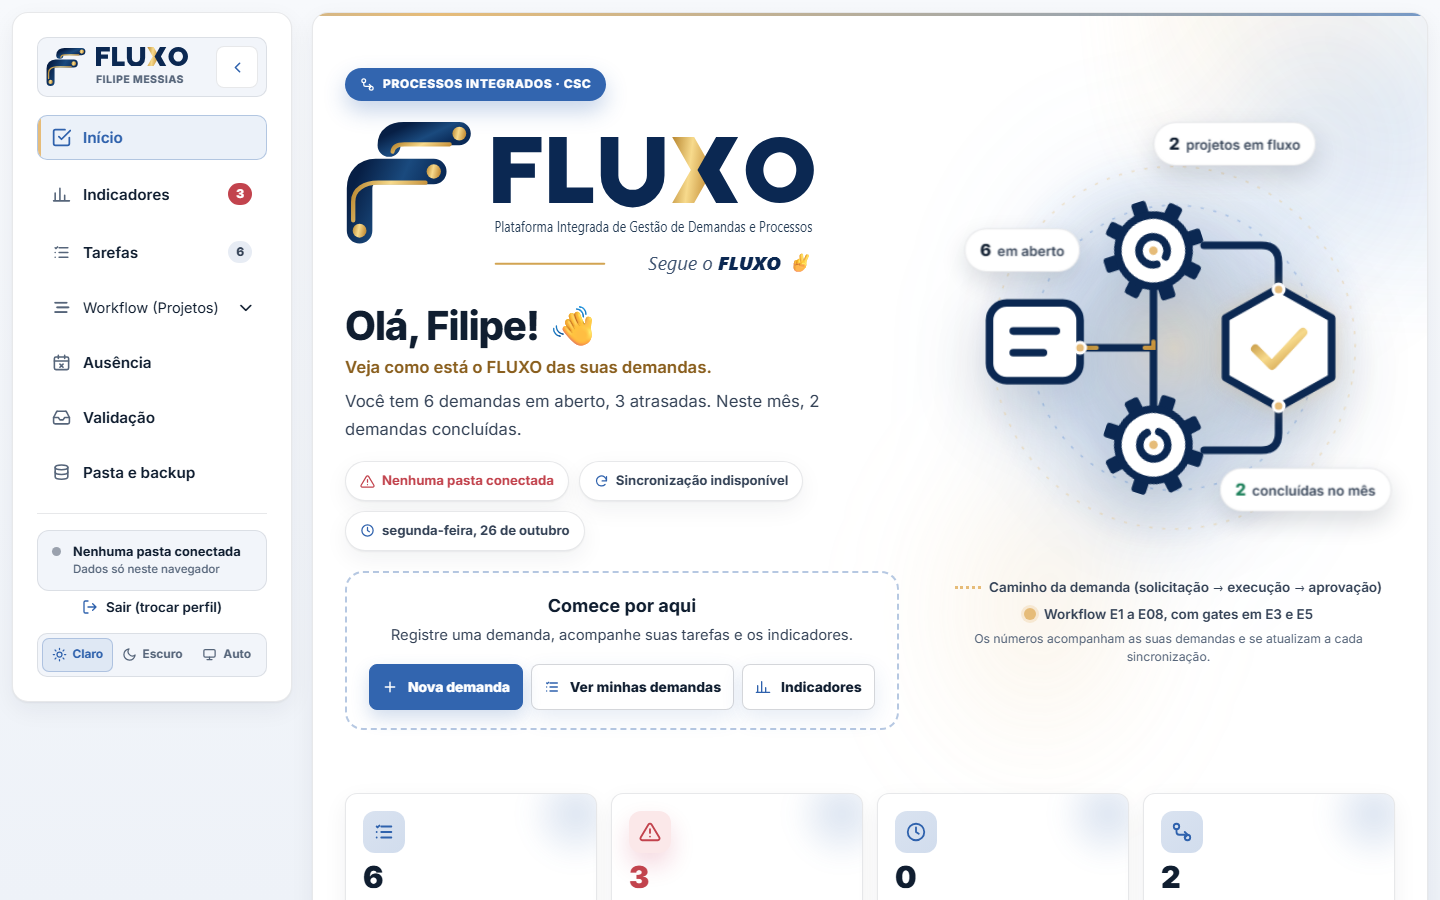
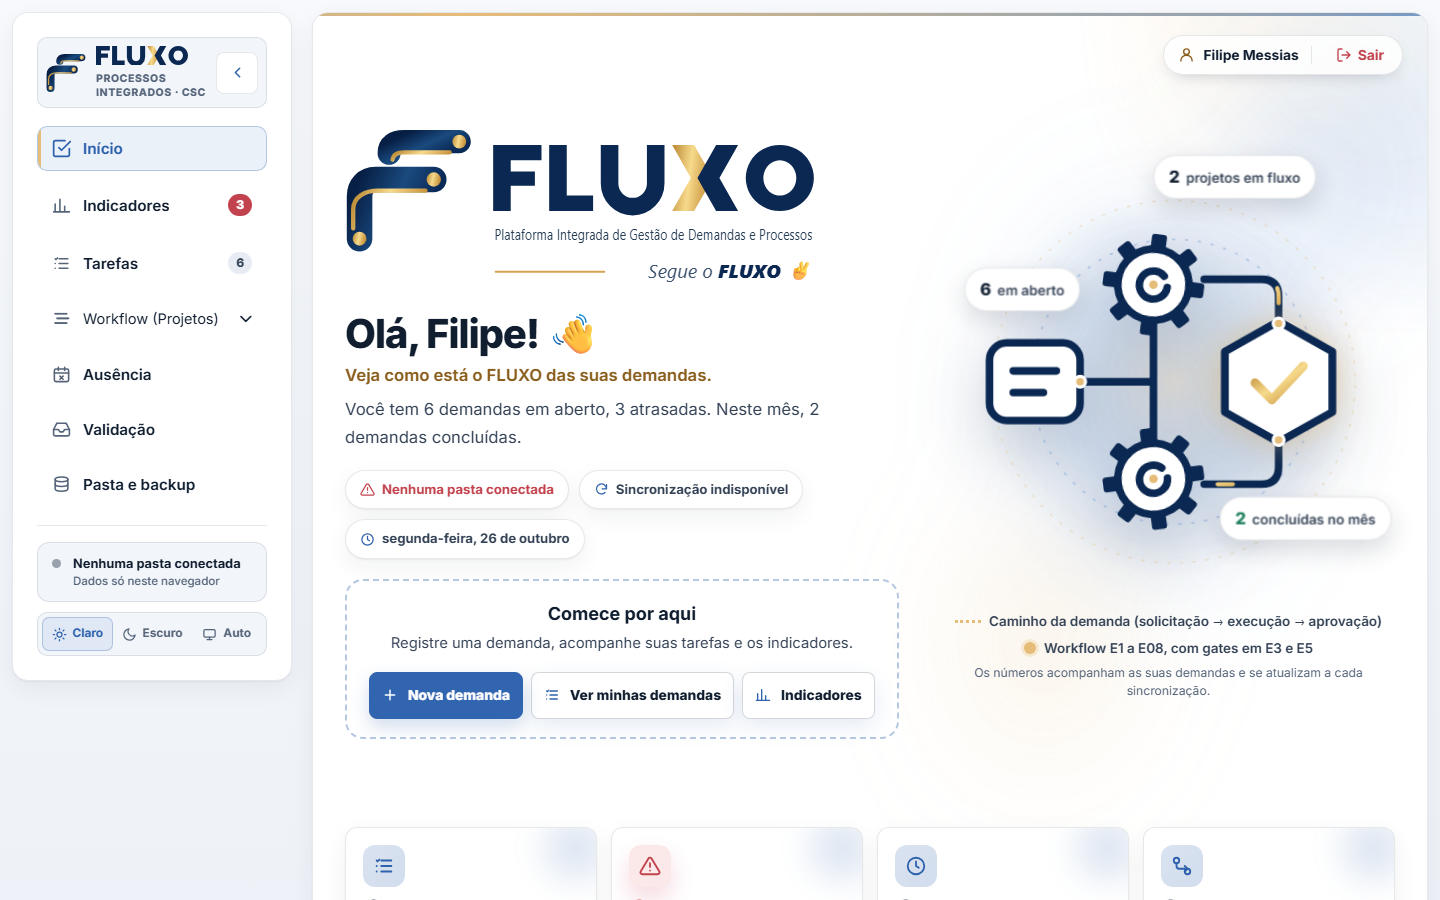
feat: barra do usuário no topo direito e "Processos Integrados · CSC" no menu
O nome do usuário e o botão Sair saem do menu lateral e vão para uma
barra no topo direito do conteúdo (Nome | Sair). Abaixo da marca, o menu
passa a mostrar "Processos Integrados · CSC", e o selo da capa sai.

diff --git a/02-usuario/app/fluxo.css b/02-usuario/app/fluxo.css
@@ -182,9 +182,6 @@ body.sidebar-collapsed .sidebar-tools { flex-direction: column; gap: 10px; }
 .sync-card { background: var(--fx-surface-2); border-color: var(--fx-line); border-radius: var(--fx-radius); }
 .theme-switch { background: var(--fx-surface-2); border-color: var(--fx-line); }
 .theme-switch button[aria-pressed="true"] { background: var(--fx-accent-soft); color: var(--fx-accent); border-color: rgba(var(--fx-accent-rgb), .35); }
-.wf-sair { color: var(--fx-danger); }
-body.sidebar-collapsed .wf-sair .lbl { display: none; }
-body.sidebar-collapsed .wf-sair { padding: 0; }
 
 /* ============ 6. Componentes ============ */
 .btn { border-radius: 10px; border-color: var(--fx-line-input); background: var(--fx-surface); color: var(--fx-ink); font-weight: 600; transition: background var(--fx-fast) var(--fx-ease), border-color var(--fx-fast) var(--fx-ease), box-shadow var(--fx-fast) var(--fx-ease), transform var(--fx-fast) var(--fx-ease); }
@@ -228,7 +225,7 @@ dialog[open] { animation: fxPop var(--fx-base) var(--fx-ease); }
 
 /* Aplicação da marca oficial e composição fluida do Início. */
 .sidebar-tools { background: var(--fx-surface-2); border-color: var(--fx-line); box-shadow: none; }
-#brandSub { max-width: 160px; overflow: hidden; text-overflow: ellipsis; white-space: nowrap; }
+#brandSub { max-width: 150px; line-height: 1.3; letter-spacing: .05em; }
 .welcome-section { width: 100%; max-width: 1040px; min-height: min(780px, calc(100dvh - 140px)); padding: 8px 14px 30px; }
 .status-badges { margin-bottom: 20px; }
 .welcome-section h2 { margin-bottom: 8px; }
@@ -342,7 +339,7 @@ dialog[open] { animation: fxPop var(--fx-base) var(--fx-ease); }
 .fx-capa {
   --fx-capa-traco: #0B2852; --fx-capa-fundo: #FFFFFF; --fx-mx: 70%; --fx-my: 40%; --fx-rx: 0deg; --fx-ry: 0deg;
   position: relative; isolation: isolate; display: grid; grid-template-columns: minmax(0, 1fr) minmax(0, 1fr); gap: clamp(20px, 3vw, 48px); align-items: center;
-  width: 100%; min-height: clamp(500px, calc(100dvh - 200px), 720px); margin: -40px 0 22px; padding: clamp(8px, 1.5vw, 18px) 0; text-align: left;
+  width: 100%; min-height: clamp(500px, calc(100dvh - 200px), 720px); margin: -6px 0 22px; padding: clamp(8px, 1.5vw, 18px) 0; text-align: left;
 }
 :root[data-theme="dark"] .fx-capa { --fx-capa-traco: #E2E8F0; --fx-capa-fundo: #192B41; }
 @media (prefers-color-scheme: dark) { :root:not([data-theme="light"]) .fx-capa { --fx-capa-traco: #E2E8F0; --fx-capa-fundo: #192B41; } }
@@ -360,8 +357,6 @@ dialog[open] { animation: fxPop var(--fx-base) var(--fx-ease); }
 
 /* ---- Coluna da ideia principal ---- */
 .fx-capa-conteudo { min-width: 0; display: flex; flex-direction: column; align-items: flex-start; }
-.fx-capa-selo { display: inline-flex; align-items: center; gap: 8px; margin-bottom: 18px; padding: 8px 15px; border-radius: 999px; background: #3265AF; color: #fff; font-size: .74rem; font-weight: 800; letter-spacing: .06em; text-transform: uppercase; box-shadow: 0 10px 22px rgba(50, 101, 175, .28); }
-.fx-capa-selo svg { width: 15px; height: 15px; }
 .fx-capa-conteudo .fx-home-marca { width: min(470px, 100%); margin: 0 0 14px; }
 .fx-capa-conteudo .fx-home-marca img { width: 100%; }
 .fx-capa-conteudo h2 { margin: 0 0 4px; text-align: left; font-size: clamp(1.8rem, 3vw, 2.5rem); letter-spacing: -.03em; }
@@ -452,7 +447,7 @@ dialog[open] { animation: fxPop var(--fx-base) var(--fx-ease); }
   .fx-capa-chip { font-size: .76rem; padding: 7px 11px; }
 }
 @media (max-width: 1100px) {
-  .fx-capa { grid-template-columns: 1fr !important; min-height: 0; margin-top: -30px; gap: 28px; text-align: center; }
+  .fx-capa { grid-template-columns: 1fr !important; min-height: 0; margin-top: -6px; gap: 28px; text-align: center; }
   .fx-capa-conteudo { align-items: center; }
   .fx-capa-conteudo h2 { text-align: center; }
   .fx-capa-conteudo p { margin-left: auto; margin-right: auto; }
@@ -461,7 +456,7 @@ dialog[open] { animation: fxPop var(--fx-base) var(--fx-ease); }
   .fx-capa-palco { width: min(100%, 460px); }
 }
 @media (max-width: 560px) {
-  .fx-capa { margin-top: -20px; }
+  .fx-capa { margin-top: -6px; }
   .fx-capa-conteudo .fx-home-marca { width: min(300px, 100%); }
   .fx-capa-acoes { padding: 18px 14px; }
   .fx-capa-chip { font-size: .7rem; padding: 6px 9px; }
@@ -471,4 +466,21 @@ dialog[open] { animation: fxPop var(--fx-base) var(--fx-ease); }
 @media (prefers-reduced-motion: reduce) {
   .fx-capa-fluxo, .fx-capa-aurora, .fx-capa-conteudo .primary-actions .cta::after { display: none; }
   .fx-capa-palco { transform: none; }
+}
+
+/* ============ 12. Barra do usuário (topo direito do conteúdo) ============ */
+.fx-topo { position: absolute !important; top: 22px; right: 24px; z-index: 10 !important; display: flex; align-items: center; gap: 12px; height: 40px; padding: 0 6px 0 14px; border: 1px solid var(--fx-line); border-radius: 999px; background: rgba(var(--fx-surface-rgb), .82); backdrop-filter: blur(8px); box-shadow: 0 6px 18px -10px rgba(16, 30, 48, .35); font-size: .86rem; }
+.close-btn:not([hidden]) ~ .fx-topo { right: 76px; }
+.fx-topo-user { display: inline-flex; align-items: center; gap: 8px; min-width: 0; color: var(--fx-ink); font-weight: 700; }
+.fx-topo-user svg { flex: none; width: 17px; height: 17px; color: var(--fx-brand-ink); }
+#fxUserName { max-width: 220px; overflow: hidden; text-overflow: ellipsis; white-space: nowrap; }
+.fx-topo-sep { width: 1px; height: 18px; background: var(--fx-line); }
+.fx-topo-sair { display: inline-flex; align-items: center; gap: 6px; height: 30px; padding: 0 12px; border: 0; border-radius: 999px; background: transparent; color: var(--fx-danger); font: inherit; font-weight: 700; cursor: pointer; transition: background var(--fx-base) var(--fx-ease); }
+.fx-topo-sair svg { width: 16px; height: 16px; }
+.fx-topo-sair:hover { background: rgba(220, 38, 38, .08); }
+.fx-topo-sair:focus-visible { outline: 2px solid var(--fx-brand); outline-offset: 2px; }
+@media (max-width: 560px) {
+  .fx-topo { top: 16px; right: 14px; gap: 8px; padding-left: 12px; font-size: .8rem; }
+  .close-btn:not([hidden]) ~ .fx-topo { right: 64px; }
+  #fxUserName { max-width: 120px; }
 }

diff --git a/02-usuario/app/pgd.js b/02-usuario/app/pgd.js
@@ -4314,8 +4314,11 @@ function renderNav() {
   const rq = cfg.mode === 'solicitante' ? reqMe() : null;
   $('#brandName').innerHTML = FX_PALAVRA + (PRESET && PRESET.teste ? ' <span class="teste-tag">TESTE</span>' : '');
   $('#brandName').title = 'FLUXO · Plataforma Integrada de Gestão de Demandas e Processos · ' + (rq ? 'Solicitações' : cfg.mode === 'gestao' ? 'Gestão financeira' : cfg.mode === 'coordenacao' ? 'Coordenação' : isSup ? (SUBST ? 'Substituição da supervisão' : 'Supervisão') : 'Minhas demandas');
-  if (isReader()) $('#brandSub').textContent = `${cfg.name || ''}${cfg.mode === 'coordenacao' && coordCtx ? ' · ' + coordCtx.nome : cfg.mode === 'gestao' ? ' · Área financeira' : ''}`;
-  else $('#brandSub').textContent = rq && cfg.mode === 'solicitante' ? `${rq.nome} · ${rq.papel === 'coordenacao' ? 'Coordenação' : 'Supervisão'}` : isSup ? (SUBST ? `${actor().nome} · substituição` : (window.SGPI_PERFIS && window.SGPI_PERFIS.ler() || {}).nome || supName()) : `${cfg.name || 'Colaborador'}${MULTI && wsCur() ? ' · ' + wsCur().label : supCtx ? ' · ' + supTitle(supCtx) : ''}`;
+  const fxUsuario = isReader() ? `${cfg.name || ''}${cfg.mode === 'coordenacao' && coordCtx ? ' · ' + coordCtx.nome : cfg.mode === 'gestao' ? ' · Área financeira' : ''}`
+    : rq && cfg.mode === 'solicitante' ? `${rq.nome} · ${rq.papel === 'coordenacao' ? 'Coordenação' : 'Supervisão'}` : isSup ? (SUBST ? `${actor().nome} · substituição` : (window.SGPI_PERFIS && window.SGPI_PERFIS.ler() || {}).nome || supName()) : `${cfg.name || 'Colaborador'}${MULTI && wsCur() ? ' · ' + wsCur().label : supCtx ? ' · ' + supTitle(supCtx) : ''}`;
+  $('#brandSub').textContent = 'Processos Integrados · CSC';
+  $('#fxUserName').textContent = fxUsuario;
+  $('#fxUserName').title = fxUsuario;
   document.title = (late ? `(${late}) ` : '') + 'FLUXO · ' + (isSup ? 'Supervisão' : 'Analista');
 }
 // SGPI: o painel abre direto, sem exigir a pasta; o cartão de sincronização no menu leva à tela da pasta.
@@ -4489,7 +4492,6 @@ function renderHome() {
     <section class="fx-capa${fxCapaEntrada()}" aria-label="Apresentação">
       <span class="fx-capa-aurora" aria-hidden="true"></span>
       <div class="fx-capa-conteudo">
-        <span class="fx-capa-selo">${I.flow}${isSup ? 'Supervisão · Processos Integrados' : 'Processos Integrados · CSC'}</span>
         ${FX_MARCA_INICIO}
         <h2>Olá${who ? `, ${esc(who)}` : ''}! 👋</h2>
         <p class="fx-kicker">${isSup ? 'Veja como está o FLUXO da sua equipe.' : 'Veja como está o FLUXO das suas demandas.'}</p>

diff --git a/02-usuario/app/pgd-markup.js b/02-usuario/app/pgd-markup.js
@@ -85,7 +85,6 @@ document.body.insertAdjacentHTML('afterbegin', `
     <ul id="navList"></ul>
     <div class="sidebar-foot">
       <button class="sync-card" id="syncState" type="button"></button>
-      <button class="btn ghost sm wf-sair" type="button" data-act="sair" title="Sair (trocar perfil)" aria-label="Sair (trocar perfil)"><svg viewBox="0 0 24 24" fill="none" stroke="currentColor" stroke-width="2" stroke-linecap="round" stroke-linejoin="round"><path d="M9 21H5a2 2 0 0 1-2-2V5a2 2 0 0 1 2-2h4"/><path d="M16 17l5-5-5-5M21 12H9"/></svg><span class="lbl">Sair (trocar perfil)</span></button>
       <div class="theme-switch" role="group" aria-label="Tema do painel">
         <button type="button" data-theme-set="light" title="Tema claro"><svg viewBox="0 0 24 24" fill="none" stroke="currentColor" stroke-width="2" stroke-linecap="round" stroke-linejoin="round"><circle cx="12" cy="12" r="4"/><path d="M12 2v2M12 20v2M4.9 4.9l1.4 1.4M17.7 17.7l1.4 1.4M2 12h2M20 12h2M4.9 19.1l1.4-1.4M17.7 6.3l1.4-1.4"/></svg><span>Claro</span></button>
         <button type="button" data-theme-set="dark" title="Tema escuro"><svg viewBox="0 0 24 24" fill="none" stroke="currentColor" stroke-width="2" stroke-linecap="round" stroke-linejoin="round"><path d="M21 12.8A9 9 0 1 1 11.2 3a7 7 0 0 0 9.8 9.8z"/></svg><span>Escuro</span></button>
@@ -98,6 +97,11 @@ document.body.insertAdjacentHTML('afterbegin', `
     <button class="close-btn" id="closeBtn" type="button" aria-label="Voltar ao início" title="Voltar ao início" hidden>
       <svg viewBox="0 0 24 24" fill="none" stroke="currentColor" stroke-width="2.2" stroke-linecap="round"><path d="M6 6l12 12M18 6L6 18"/></svg>
     </button>
+    <div class="fx-topo" role="group" aria-label="Usuário conectado">
+      <span class="fx-topo-user"><svg viewBox="0 0 24 24" fill="none" stroke="currentColor" stroke-width="2" stroke-linecap="round" stroke-linejoin="round" aria-hidden="true"><circle cx="12" cy="8" r="4"/><path d="M4 21a8 8 0 0 1 16 0"/></svg><span id="fxUserName"></span></span>
+      <span class="fx-topo-sep" aria-hidden="true"></span>
+      <button class="fx-topo-sair" type="button" data-act="sair" title="Sair (trocar perfil)"><svg viewBox="0 0 24 24" fill="none" stroke="currentColor" stroke-width="2" stroke-linecap="round" stroke-linejoin="round" aria-hidden="true"><path d="M9 21H5a2 2 0 0 1-2-2V5a2 2 0 0 1 2-2h4"/><path d="M16 17l5-5-5-5M21 12H9"/></svg><span>Sair</span></button>
+    </div>
     <div class="banner" id="connBanner" hidden></div>
 
     <!-- INÍCIO -->

diff --git a/README.md b/README.md
@@ -151,7 +151,7 @@ Tudo em `_legado` pode ser apagado quando você quiser. Os arquivos que estavam 
 3. **Direcionamento.** A supervisão vai para `02-usuario/supervisor/` e os analistas vão para `02-usuario/analista/`.
 4. **Painel.** A página confere a sessão e monta o `PAINEL_PRESET`, com modo, nome e pasta esperada. Em seguida carrega o motor. O painel sempre abre na seção **Início**, sem exigir a pasta. Até conectar, tudo fica guardado no navegador.
 5. **Sincronização.** Quando quiser, a pessoa conecta a pasta do OneDrive pelo menu. A partir daí o painel lê e grava os arquivos da pasta (seção 8).
-6. **Saída.** O botão **Sair (trocar perfil)** no menu lateral apaga a sessão e volta ao login. Os dados locais e os da pasta continuam.
+6. **Saída.** Na barra do topo direito, ao lado do nome do usuário, o botão **Sair** apaga a sessão e volta ao login. Os dados locais e os da pasta continuam.
 
 ---
 
@@ -189,7 +189,7 @@ Os dois painéis usam o mesmo motor (`pgd.js`). O `mode` do preset decide o menu
 
 | Item | Para que serve |
 | --- | --- |
-| **Início** | Capa de largura total em duas colunas. À esquerda, a ideia principal: selo, logo FLUXO com slogan, saudação, resumo, estados da pasta e a área tracejada "Comece por aqui" com as ações. À direita, a ilustração animada do fluxo com etiquetas de números reais (em aberto, projetos em fluxo, concluídas no mês) e legenda. Efeitos: borda viva, aurora, luz do cursor e inclinação 3D. No tablet e no celular vira uma coluna, com a ilustração abaixo. Em seguida, cartões de atalho (em aberto, atrasadas, vencem em breve, Workflow). |
+| **Início** | Capa de largura total em duas colunas. À esquerda, a ideia principal: logo FLUXO com slogan, saudação, resumo, estados da pasta e a área tracejada "Comece por aqui" com as ações. À direita, a ilustração animada do fluxo com etiquetas de números reais (em aberto, projetos em fluxo, concluídas no mês) e legenda. Efeitos: borda viva, aurora, luz do cursor e inclinação 3D. No tablet e no celular vira uma coluna, com a ilustração abaixo. Em seguida, cartões de atalho (em aberto, atrasadas, vencem em breve, Workflow). |
 | **Indicadores** | Cartões por situação, itens que pedem atenção, régua de prazos, tabela por assunto e ritmo da semana. |
 | **Tarefas** | Lista e quadro das suas demandas: filtros, nova demanda, notas de andamento, anexos, recorrência, relatório em PDF/Excel. |
 | **Workflow (Projetos)** (grupo) | O título só abre e fecha a lista, com animação. Dentro ficam **Workflow** (tracker) e **E3 — Levantamento**, **E4 — Execução**, **E5 — Validação**, **E6 — Ajustes**, **E7 — Entrega**, **E08 — Hypercare** (seção 6). A lista começa fechada e já vem aberta quando a tela atual é do Workflow. |
@@ -206,7 +206,7 @@ A ordem segue o raciocínio da gestão: visão geral (Início e Indicadores), ex
 ### Rodapé do menu lateral
 
 - **Cartão de sincronização:** mostra o estado da pasta. Clicar nele leva à tela da pasta, ou reativa a pasta quando ela está aguardando permissão.
-- **Sair (trocar perfil):** volta ao login.
+- **Barra do usuário (topo direito):** nome do usuário conectado | **Sair**, que volta ao login.
 - **Tema:** claro, escuro ou automático (segue o Windows).
 
 ---
@@ -682,7 +682,7 @@ São **57 verificações, todas aprovadas** (atualizado com a marca oficial). El
 | Área | O que foi verificado |
 | --- | --- |
 | Login | Senha errada recusada. Apelidos (`fm`, `supervisora`) aceitos. Erro acessível quando falta o usuário (`role="alert"`, `aria-invalid`). Mostrar e ocultar senha (`aria-pressed`). Sem sessão, o painel volta ao login. |
-| Marca | Palavra FLUXO oficial (clara e escura) e símbolo oficial no menu, com o nome do usuário dinâmico. Logo institucional no Início, no lugar do ícone isolado. Logo completa e símbolo + FLUXO no login. Favicon oficial. Aba "FLUXO". Nenhum "PGD" ou "SGPI" visível. |
+| Marca | Palavra FLUXO oficial (clara e escura) e símbolo oficial no menu, com "Processos Integrados · CSC" abaixo da marca; nome do usuário dinâmico e Sair na barra do topo direito. Logo institucional no Início, no lugar do ícone isolado. Logo completa e símbolo + FLUXO no login. Favicon oficial. Aba "FLUXO". Nenhum "PGD" ou "SGPI" visível. |
 | Temas | Escuro como padrão de primeiro acesso. Troca para claro. Automático segue o sistema. |
 | Menus | Ordem do menu do analista e da supervisão. Grupo Workflow (Projetos) abre e fecha sem trocar de tela. O sistema abre no Início. |
 | Workflow | Tracker e telas E1 a E08 aparecem mesmo sem projetos. Guia dos Campos. A supervisão grava E1/E2 em `atribuidas.json` e o analista aplica. Gate E3 trava a E4, gate E5 trava a E6. Evidência faltando fica destacada. E1/E2 somente leitura para o analista; E3 somente leitura para a supervisão. O status da demanda segue o workflow. |

diff --git a/02-usuario/app/marca/README.md b/02-usuario/app/marca/README.md
@@ -40,9 +40,10 @@ A palavra FLUXO é desenhada como vetor (não é texto em fonte). Por isso apare
 
 | Local | Versão da marca |
 | --- | --- |
-| Menu lateral expandido | Símbolo + palavra FLUXO + nome do usuário (dinâmico), no cartão do cabeçalho |
+| Menu lateral expandido | Símbolo + palavra FLUXO + "Processos Integrados · CSC", no cartão do cabeçalho |
+| Barra do topo direito | Nome do usuário conectado (dinâmico) | Sair |
 | Menu lateral recolhido | Só o símbolo |
-| Início (analista e supervisão) | Capa de largura total: à esquerda, selo, logo completa com descrição e slogan, saudação, estados da pasta e a área "Comece por aqui"; à direita, a ilustração animada com etiquetas de números e legenda. Os cartões de atalho vêm abaixo |
+| Início (analista e supervisão) | Capa de largura total: à esquerda, logo completa com descrição e slogan, saudação, estados da pasta e a área "Comece por aqui"; à direita, a ilustração animada com etiquetas de números e legenda. Os cartões de atalho vêm abaixo |
 | Login: área institucional | Logo completa (versão escura) no topo esquerdo |
 | Login: cartão de acesso | Símbolo + FLUXO, acima de "Acesse o FLUXO" |
 | Telas internas (Tarefas, Workflow, Indicadores, Validação, Ausência, Pasta e backup, Dashboard) | Marca compacta do menu lateral; a logo completa não se repete |
@@ -55,7 +56,7 @@ Cada local carrega a versão clara e a escura do ativo. A regra `.fx-claro` / `.
 
 ## Ilustração da capa do Início
 
-A capa ocupa toda a largura do painel e segue o padrão de capa do CSC (ideia principal à esquerda, ilustração à direita). **À esquerda**: selo ("Processos Integrados · CSC" ou "Supervisão · Processos Integrados"), logo completa como título, saudação, resumo, estados da pasta e a área tracejada "Comece por aqui" com as ações. **À direita**: a ilustração com três etiquetas de números reais (em aberto, projetos em fluxo, concluídas no mês) e uma legenda abaixo. No HTML, o conteúdo vem primeiro, então leitores de tela e o celular leem a marca e a saudação antes da ilustração, que é decorativa (`aria-hidden`).
+A capa ocupa toda a largura do painel e segue o padrão de capa do CSC (ideia principal à esquerda, ilustração à direita). **À esquerda**: logo completa como título, saudação, resumo, estados da pasta e a área tracejada "Comece por aqui" com as ações. **À direita**: a ilustração com três etiquetas de números reais (em aberto, projetos em fluxo, concluídas no mês) e uma legenda abaixo. No HTML, o conteúdo vem primeiro, então leitores de tela e o celular leem a marca e a saudação antes da ilustração, que é decorativa (`aria-hidden`).
 
 A ilustração é um vetor desenhado nas cores da marca a partir do ícone de processo (documento → duas engrenagens → hexágono de aprovação). Fica embutida em `../pgd.js` (`FX_CAPA_ARTE`), com o estilo e os efeitos em `../fluxo.css` (seção 11).
 
